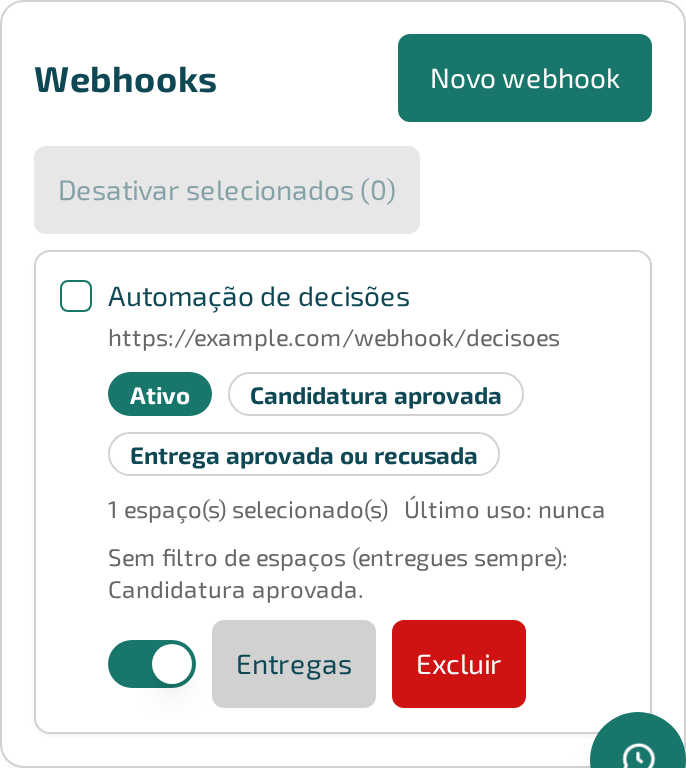
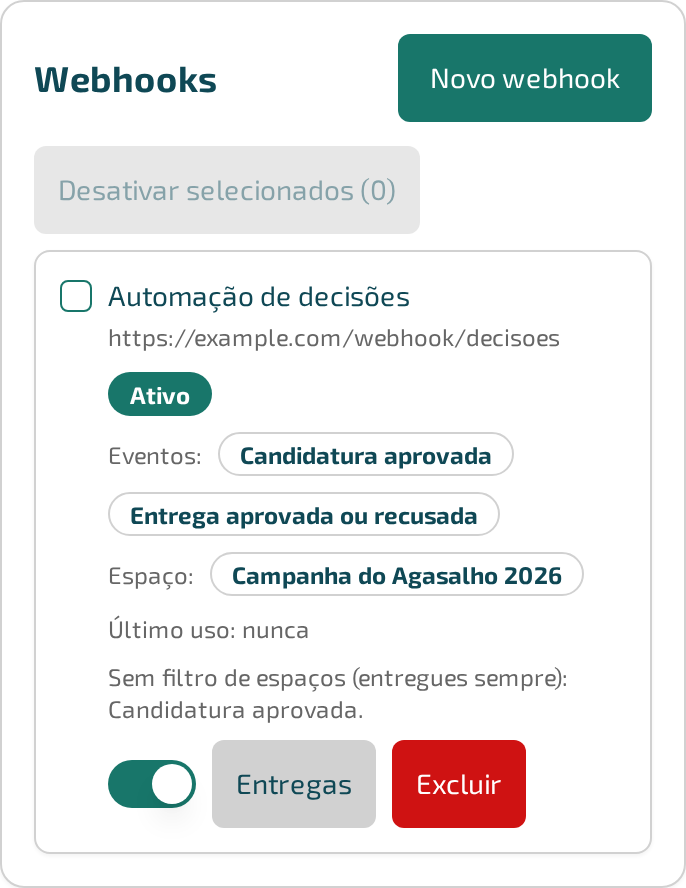
docs: tela de integrações refeita e a coordenação de frente sem o aviso de permissão (#304, #281)

diff --git a/configuracoes/integracoes.md b/configuracoes/integracoes.md
@@ -53,7 +53,9 @@ vazamento fica do tamanho da integração.
 2. Preencha **"Nome"** — algo que te ajude a lembrar para que serve, como "n8n produção".
 3. Em **"O que ela pode"**, escolha **"Só ler"** ou **"Ler e alterar"**.
 4. Em **"Em quais espaços"**, deixe marcado **"Todos os espaços da organização"**, ou desmarque e
-   escolha só os espaços que essa chave deve alcançar.
+   escolha só os espaços que essa chave deve alcançar. A lista oferece **só espaços ativos**: um
+   espaço arquivado não aparece (veja [Só espaços ativos](#só-espaços-ativos)). Se a organização não
+   tem nenhum espaço ativo, a lista diz **"Nenhum espaço ativo encontrado."**
 5. Em **"O que esta chave alcança"**, marque cada informação que a integração precisa. A lista é
    agrupada por módulo — **Organização, Trabalho, Conhecimento, Relatórios, Comunicação,
    Assistente e Flow** — e cada item aparece como **"<Recurso>: <ação>"**, por exemplo
@@ -62,6 +64,8 @@ vazamento fica do tamanho da integração.
    explicação na tela é: "Nada vem marcado: a chave alcança só o que você escolher aqui. Marque o
    mínimo que a integração precisa."
 6. Clique em **"Criar chave"**.
+
+![Janela "Nova chave de API" com "Todos os espaços da organização" desmarcado e a lista mostrando só dois espaços ativos, "Comunicação institucional" e "Campanha do Agasalho 2026", ambos marcados](/assets/capturas/integracoes-chave-nova-desktop.png)
 
 A tela mostra a chave em claro **uma única vez**, com o aviso: "Copie agora — por segurança, esta
 chave não aparece de novo. Se perdê-la, revogue e crie outra." Clique em **"Copiar"** antes de
@@ -90,6 +94,21 @@ Cada chave da lista traz uma linha **"O que ela alcança:"**, seguida dos itens 
 exemplo, *"Organização · Cadastro de pessoas: ver"*. Quando nada foi marcado, a linha diz: "O que
 ela alcança: nada — esta chave não alcança nenhuma informação." É o primeiro lugar a olhar quando
 uma integração começa a receber recusas.
+
+O cartão da chave é empilhado, de cima para baixo: o nome e o início da chave, **"Só ler"** ou
+**"Ler e alterar"**, **onde** a chave vale, **"Último uso"** e **"Limite"**, o **"O que ela alcança:"**
+e, por último, **"Revogar"**. Onde a chave vale vem numa linha própria: **"Todos os espaços"**, ou
+**"Espaço:"** (um só) / **"Espaços:"** (vários), seguido de **uma etiqueta com o nome de cada
+espaço**. Você não precisa abrir nada para saber *quais* — a tela nomeia. Se o espaço foi removido,
+ou a lista não o traz, a etiqueta diz **"Espaço não encontrado"**.
+
+Nada passa da largura da tela, nem no celular, e **"Último uso"** e os botões ficam sempre à vista.
+É o **"Último uso"** que diz se a integração está viva: uma chave que ninguém usa há semanas é
+candidata a revogar.
+
+![Cartão "Chaves de API" com a chave "planilha da equipe", "Só ler", a linha "Espaços:" com as etiquetas "Comunicação institucional" e "Campanha do Agasalho 2026", "Último uso: nunca", "O que ela alcança" e o botão "Revogar", tudo dentro da largura do cartão](/assets/capturas/integracoes-chave-lista-desktop.png)
+
+![Cartão "Chaves de API" no celular, empilhado: as etiquetas de espaço quebram para a linha de baixo e o botão "Revogar" aparece por inteiro](/assets/capturas/integracoes-chave-lista-celular.png){: style="max-width:375px" }
 
 ### O que uma chave nunca pode
 
@@ -122,8 +141,9 @@ criada, uma entrega enviada para aprovação, um pedido de triagem decidido.
 2. Preencha **"Nome"** e **"URL de destino"** — o endereço do sistema que vai receber o aviso. A
    URL precisa começar com `https://`; endereços internos são recusados.
 3. Em **"Eventos"**, marque os que você quer que disparem um aviso.
-4. Em **"Em quais espaços"**, escolha todos ou só alguns, como na chave de API — mas leia antes a
-   regra do filtro, logo abaixo: ela não vale para todos os eventos.
+4. Em **"Em quais espaços"**, escolha todos ou só alguns, como na chave de API — a lista oferece só
+   espaços ativos (**"Nenhum espaço ativo encontrado."** quando não há nenhum). Leia antes a regra
+   do filtro, logo abaixo: ela não vale para todos os eventos.
 5. Clique em **"Criar webhook"**.
 
 ![Janela "Novo webhook" aberta, com a lista de eventos — "Candidatura aprovada" e "Candidatura reprovada" trazem a marca "(não pertence a um espaço)" — e o campo "Em quais espaços" com "Todos os espaços da organização" marcado](/assets/capturas/integracoes-webhook-novo-desktop.png)
@@ -164,12 +184,24 @@ aparece também *"Dos eventos marcados, não são filtrados por espaço: …"*, 
 
 ![Janela "Novo webhook" no celular, com o filtro limitado a um espaço e a linha que avisa quais eventos marcados não são filtrados](/assets/capturas/integracoes-webhook-filtro-celular.png){: style="max-width:375px" }
 
-Na lista de webhooks, o cartão de um webhook limitado a espaços repete o aviso numa linha própria —
+Na lista de webhooks, cada cartão é empilhado e diz, em linhas separadas, **o que** e **onde**:
+
+- **"Evento:"** (um) ou **"Eventos:"** (vários), seguido de **uma etiqueta por evento**.
+- **"Espaço:"** (um) ou **"Espaços:"** (vários), seguido de **uma etiqueta com o nome de cada
+  espaço** — ou **"Todos os espaços"**, quando não há filtro. Espaço removido, ou que a lista não
+  traz, aparece como **"Espaço não encontrado"**.
+- **"Último uso"** e os botões, sempre visíveis.
+
+O rótulo em cada linha existe para que ninguém confunda uma etiqueta de espaço com uma de evento: as
+duas têm o mesmo formato, e sem o rótulo um webhook com três eventos e um espaço parece ter quatro
+eventos.
+
+Um webhook limitado a espaços repete também o aviso numa linha própria —
 *"Sem filtro de espaços (entregues sempre): …"* —, para que ninguém precise lembrar o que marcou.
 
-![Cartão "Webhooks" com o webhook "Automação de decisões", limitado a 1 espaço, e a linha "Sem filtro de espaços (entregues sempre): Candidatura aprovada."](/assets/capturas/integracoes-webhook-lista-desktop.png)
+![Cartão "Webhooks" com o webhook "Automação de decisões": "Eventos:" com duas etiquetas, "Espaço:" com "Campanha do Agasalho 2026", "Último uso: nunca", a linha "Sem filtro de espaços (entregues sempre): Candidatura aprovada." e os botões "Entregas" e "Excluir"](/assets/capturas/integracoes-webhook-lista-desktop.png)
 
-![Cartão "Webhooks" no celular, com a linha "Sem filtro de espaços (entregues sempre)"](/assets/capturas/integracoes-webhook-lista-celular.png){: style="max-width:375px" }
+![Cartão "Webhooks" no celular, empilhado, com "Eventos:", "Espaço:", "Último uso" e os botões, sem nada cortado](/assets/capturas/integracoes-webhook-lista-celular.png){: style="max-width:375px" }
 
 {: .tip }
 Quer receber **só** as candidaturas, sem nenhum evento de espaço? Marque apenas os dois eventos de
@@ -239,6 +271,16 @@ defeito no webhook, na URL ou no sistema de destino, onde ele não está.
   desfeita."
 - Para desligar vários de uma vez, marque-os e clique em **"Desativar selecionados"**.
 
+## Só espaços ativos
+
+Ao criar uma chave de API ou um webhook, a lista de espaços oferece **só os espaços ativos**. Por que
+isso importa: um espaço arquivado já terminou, e uma integração limitada a ele ficaria vigiando algo
+que não recebe mais nada — e você acharia que ela está funcionando.
+
+Se mesmo assim a criação chegar ao servidor com um espaço arquivado (a lista na tela estava aberta
+havia tempo e o espaço foi arquivado nesse intervalo, por exemplo), o servidor recusa e **diz qual
+espaço é o problema**, pelo nome — veja as mensagens em "Quando dá errado".
+
 ## Exemplo
 
 Para um relatório semanal, Maria Oliveira cria no Instituto Semente uma chave chamada "planilha da
@@ -272,8 +314,13 @@ toda decisão sobre uma entrega dispara o aviso sozinho, sem ninguém copiar nad
   disponíveis."** — recarregue a página.
 - **"Não foi possível resolver o endereço informado."** — a URL de destino não existe (erro de
   digitação no domínio, por exemplo). Corrija e crie de novo.
-- **"Espaço(s) inexistente(s) ou arquivado(s): …"** — um dos espaços marcados no filtro foi
-  arquivado ou não existe mais. Desmarque-o e escolha outro.
+- **"O espaço "Formação de educadores" está arquivado. Escolha só espaços ativos."** — o espaço
+  marcado no filtro foi arquivado. No plural: **"Os espaços "A", "B" estão arquivados. Escolha só
+  espaços ativos."** Desmarque os citados e crie de novo.
+- **"Um dos espaços escolhidos não existe nesta organização. Escolha só espaços ativos."** — um
+  espaço marcado já não existe aqui. No plural: **"N dos espaços escolhidos não existem nesta
+  organização. Escolha só espaços ativos."** Recarregue a página para ver a lista atual.
+  Quando há as duas situações ao mesmo tempo, as duas frases vêm juntas, na mesma mensagem.
 - **"Falha ao carregar as chaves de API."** ou **"Falha ao carregar os webhooks."** — recarregue a
   página.
 

diff --git a/flow/frentes.md b/flow/frentes.md
@@ -62,7 +62,9 @@ precisa ser feito"**.)
      definido.** **Zero fecha a frente para novos.**
    - **"Quem coordena"** — busque a pessoa **no cadastro** (escreva ao menos duas letras do nome) e
      clique no nome. Tem de ser uma pessoa já cadastrada em [Pessoas](/pessoas/); o campo não aceita
-     nome digitado à mão. Para trocar, escolha outra; para tirar, **"Remover coordenação"**.
+     nome digitado à mão. Para trocar, escolha outra; para tirar, **"Remover coordenação"**. A
+     **caixa de busca** só aparece para quem tem permissão de ver o cadastro de pessoas — veja
+     "Dicas e armadilhas" e "Limites do papel".
    - **"O que se espera de quem entra"** — **"Tempo disponível"** (por exemplo, "4 horas por
      semana"), **"Experiência"** (**"Não precisa de experiência"** ou **"Pede alguma experiência"**)
      e **"Qual experiência (se pedir alguma)"**.
@@ -113,9 +115,13 @@ campanha, é arquivada — e quem trabalhou nela continua com o registro.
 - **Complete primeiro as frentes onde chegam candidatos.** Uma frente com "Falta definir" não deixa
   você responder à pergunta "há lugar?" — e candidato sem resposta desiste.
 - **Escolha uma coordenação que esteja no cadastro e que vá, de fato, chamar a pessoa.** Se a
-  pessoa escolhida sair do cadastro, a tela avisa **"A pessoa saiu do cadastro — escolha outra"**; e
-  se você não tiver acesso ao cadastro de pessoas, a tela mostra **"Definida (você não tem acesso ao
-  cadastro de pessoas para ver o nome)"** — a coordenação existe, você só não vê quem é.
+  pessoa escolhida sair do cadastro, a tela avisa **"A pessoa saiu do cadastro — escolha outra"**.
+- **Ver quem coordena não exige ver o cadastro; escolher outra pessoa pela busca exige.** Quem
+  configura frentes mas não tem permissão de ver pessoas enxerga o **nome** de quem coordena em cada
+  frente, sem alcançar CPF, endereço nem contato de ninguém. O que continua pedindo a permissão é a
+  caixa de busca para escolher *outra* pessoa: uma busca por nome mostraria a lista de todas as
+  pessoas cadastradas, e isso é mais do que quem organiza voluntariado precisa ver. Se você
+  precisa trocar a coordenação e não vê a caixa, peça a permissão ou peça a quem a tem.
 - **Zero é decisão, vazio é falta de decisão.** "Quantas pessoas cabem" vazio diz "ainda não
   definimos"; zero diz "está fechada". Não confunda os dois.
 - **Arquivar não devolve o lugar de ninguém.** Quem já está numa frente arquivada continua nela. Se
@@ -131,9 +137,12 @@ campanha, é arquivada — e quem trabalhou nela continua com o registro.
   estão arquivadas. Desarquive as que quer manter ou crie novas.
 - **"Você não tem permissão para ver as frentes de trabalho desta organização."** — o seu papel não
   alcança as frentes; peça a quem administra a organização.
-- **"Para escolher a coordenação é preciso poder consultar o cadastro de pessoas."** — você pode
-  editar a frente, mas não consultar [Pessoas](/pessoas/); peça a permissão ou peça a quem a tem
-  que escolha a coordenação.
+- **"Para escolher a coordenação é preciso poder consultar o cadastro de pessoas."** — aparece na
+  janela **"Editar frente"**, no lugar da caixa de busca de **"Quem coordena"**. Você pode editar a
+  frente e vê quem coordena hoje, mas não consultar [Pessoas](/pessoas/) para escolher outra
+  pessoa; peça a permissão ou peça a quem a tem que escolha a coordenação.
+- **"Não foi possível consultar o cadastro agora"**, no lugar do nome de quem coordena — o cadastro
+  não respondeu naquele momento; a coordenação não foi perdida. Recarregue a página em instantes.
 - **"Ninguém no cadastro com este nome. A pessoa precisa estar cadastrada em Pessoas."** —
   cadastre-a antes em [Pessoas](/pessoas/), depois volte à frente.
 - **"Não foi possível carregar as frentes de trabalho."** / **"Não foi possível salvar."** —
@@ -143,3 +152,7 @@ campanha, é arquivada — e quem trabalhou nela continua com o registro.
 
 Quem administra a organização vê e configura as frentes. Quem só pode ver as lê, mas não encontra os
 botões **"Nova frente"**, **"Editar"** e **"Arquivar"**.
+
+Para **escolher a coordenação** é preciso, além de poder editar frentes, ter a permissão de ver o
+cadastro de pessoas — é ela que libera a caixa de busca. Ver o **nome** de quem já coordena não pede
+essa permissão.

diff --git a/novidades.md b/novidades.md
@@ -17,6 +17,32 @@ produtos da casa: o registro do que mudou de uma versão para a outra.
 
 ---
 
+## 13 de outubro de 2026 — versão 0.61.0
+
+A tela de **Integrações** passa a **caber na tela** e a dizer **quais espaços** cada chave e cada
+webhook alcançam; e quem configura as frentes do Flow **vê o nome de quem coordena** sem precisar
+ver o cadastro de pessoas.
+
+### Corrigido
+
+- **O cartão de chave de API e o de webhook cabem na largura.** Antes, "Último uso" podia ser cortado
+  e, com muitos eventos, os botões sumiam. Agora o cartão é empilhado e as duas coisas ficam sempre à
+  vista, inclusive no celular.
+- **Os espaços aparecem pelo nome.** Em vez de "1 espaço(s) selecionado(s)", cada cartão lista os
+  espaços, e cada grupo ganhou rótulo próprio — **"Eventos:"** e **"Espaços:"**, numa linha só dele.
+- **Criar chave ou webhook só oferece espaço ativo.** Espaço arquivado não aparece mais na lista; e,
+  se o servidor recusar um espaço, a mensagem diz **qual** pelo nome. Veja
+  [Integrações](/configuracoes/integracoes/#só-espaços-ativos).
+
+### Modificado
+
+- **Frentes de trabalho: o nome de quem coordena aparece para quem as configura.** Quem não podia ver
+  o cadastro de pessoas via "Definida (você não tem acesso…)" no lugar do nome — isso acabou. Escolher
+  **outra** pessoa pela caixa de busca continua pedindo a permissão de ver o cadastro de pessoas.
+  Veja [Frentes de trabalho](/flow/frentes/).
+
+---
+
 ## 13 de outubro de 2026 — versão 0.60.0
 
 O webhook limitado a alguns espaços **passa a receber as candidaturas** que você marcou.
